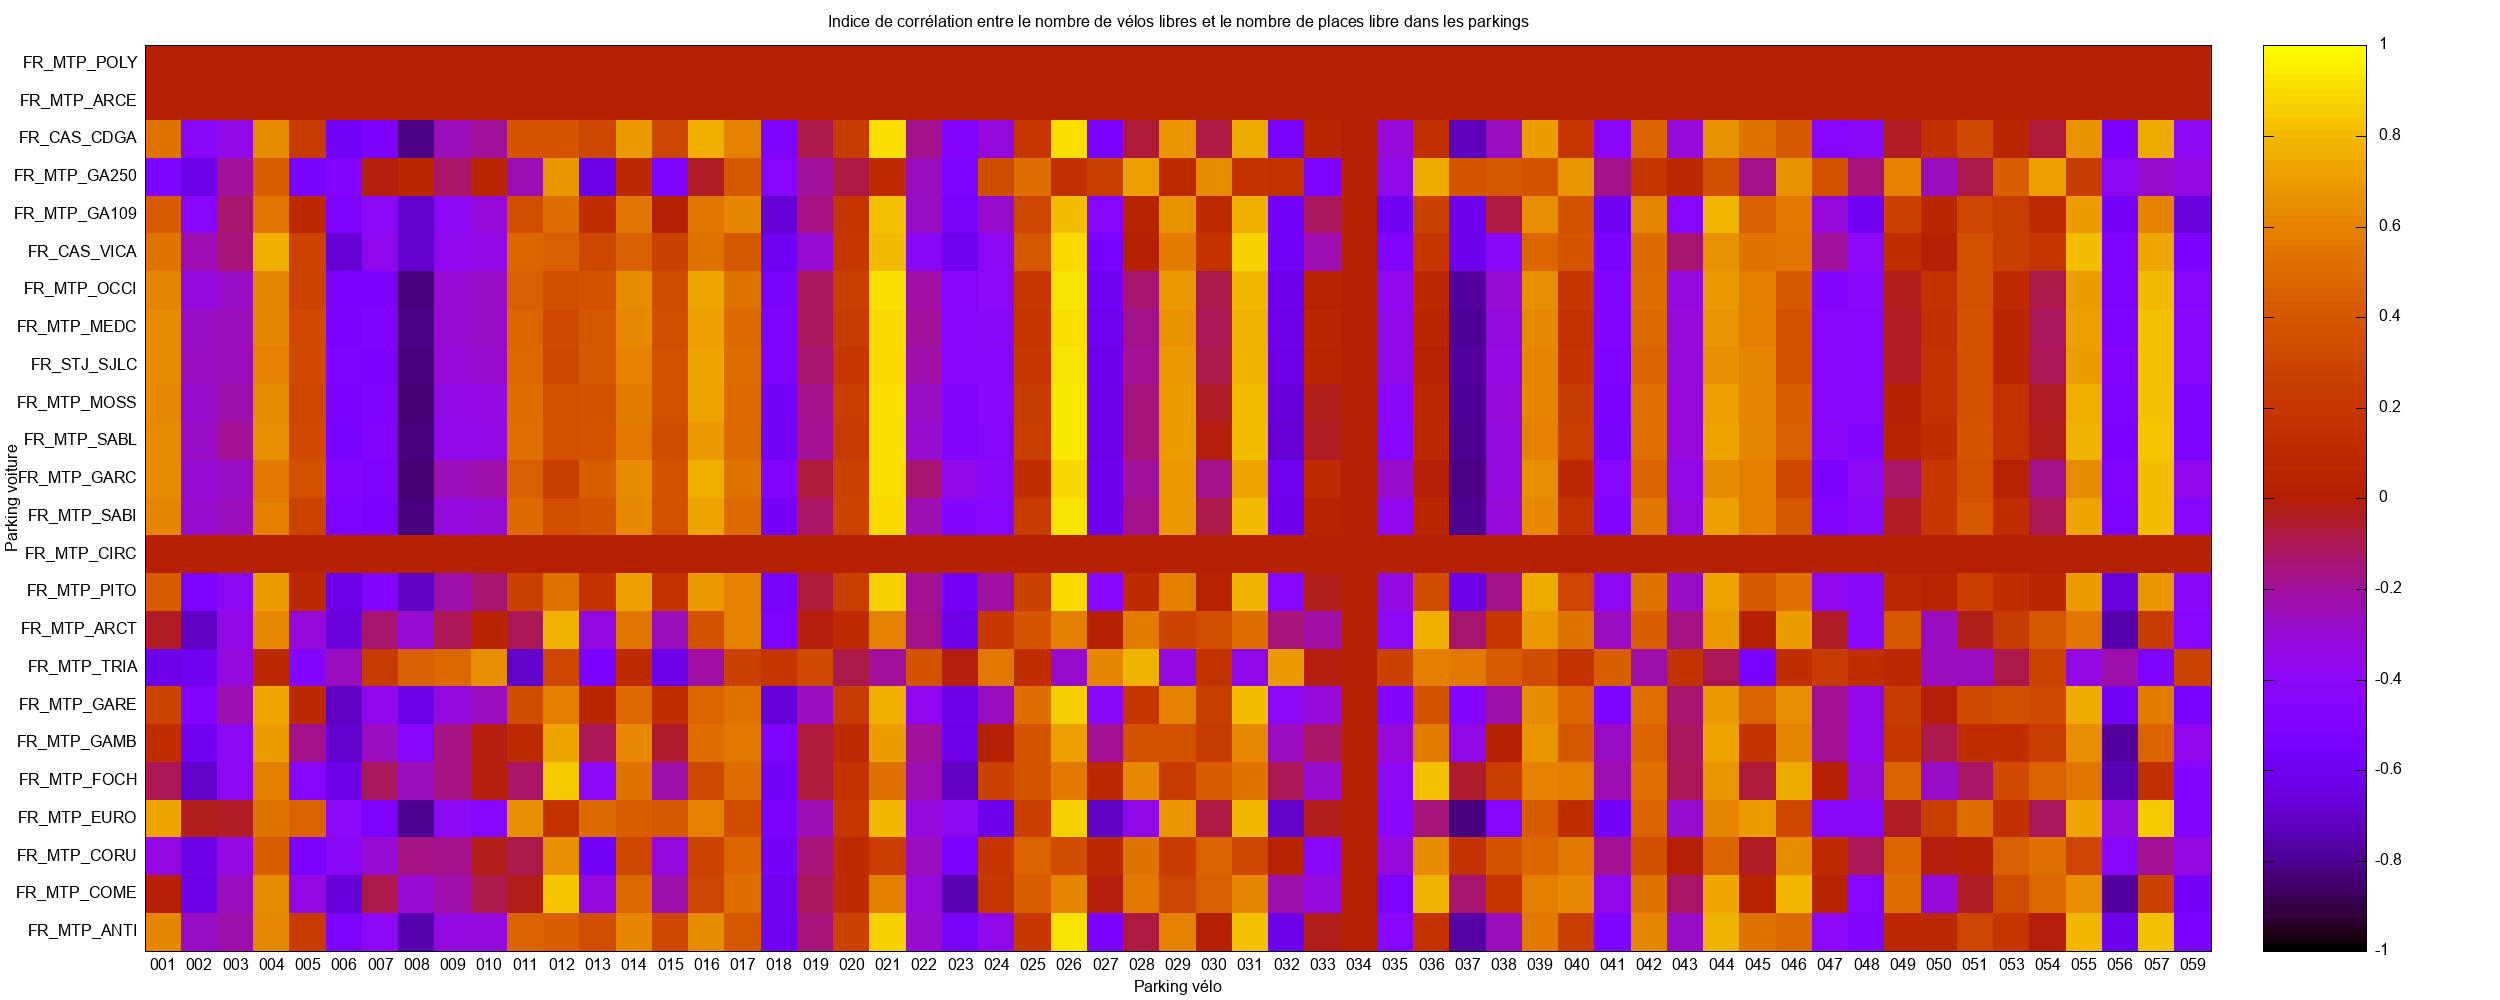
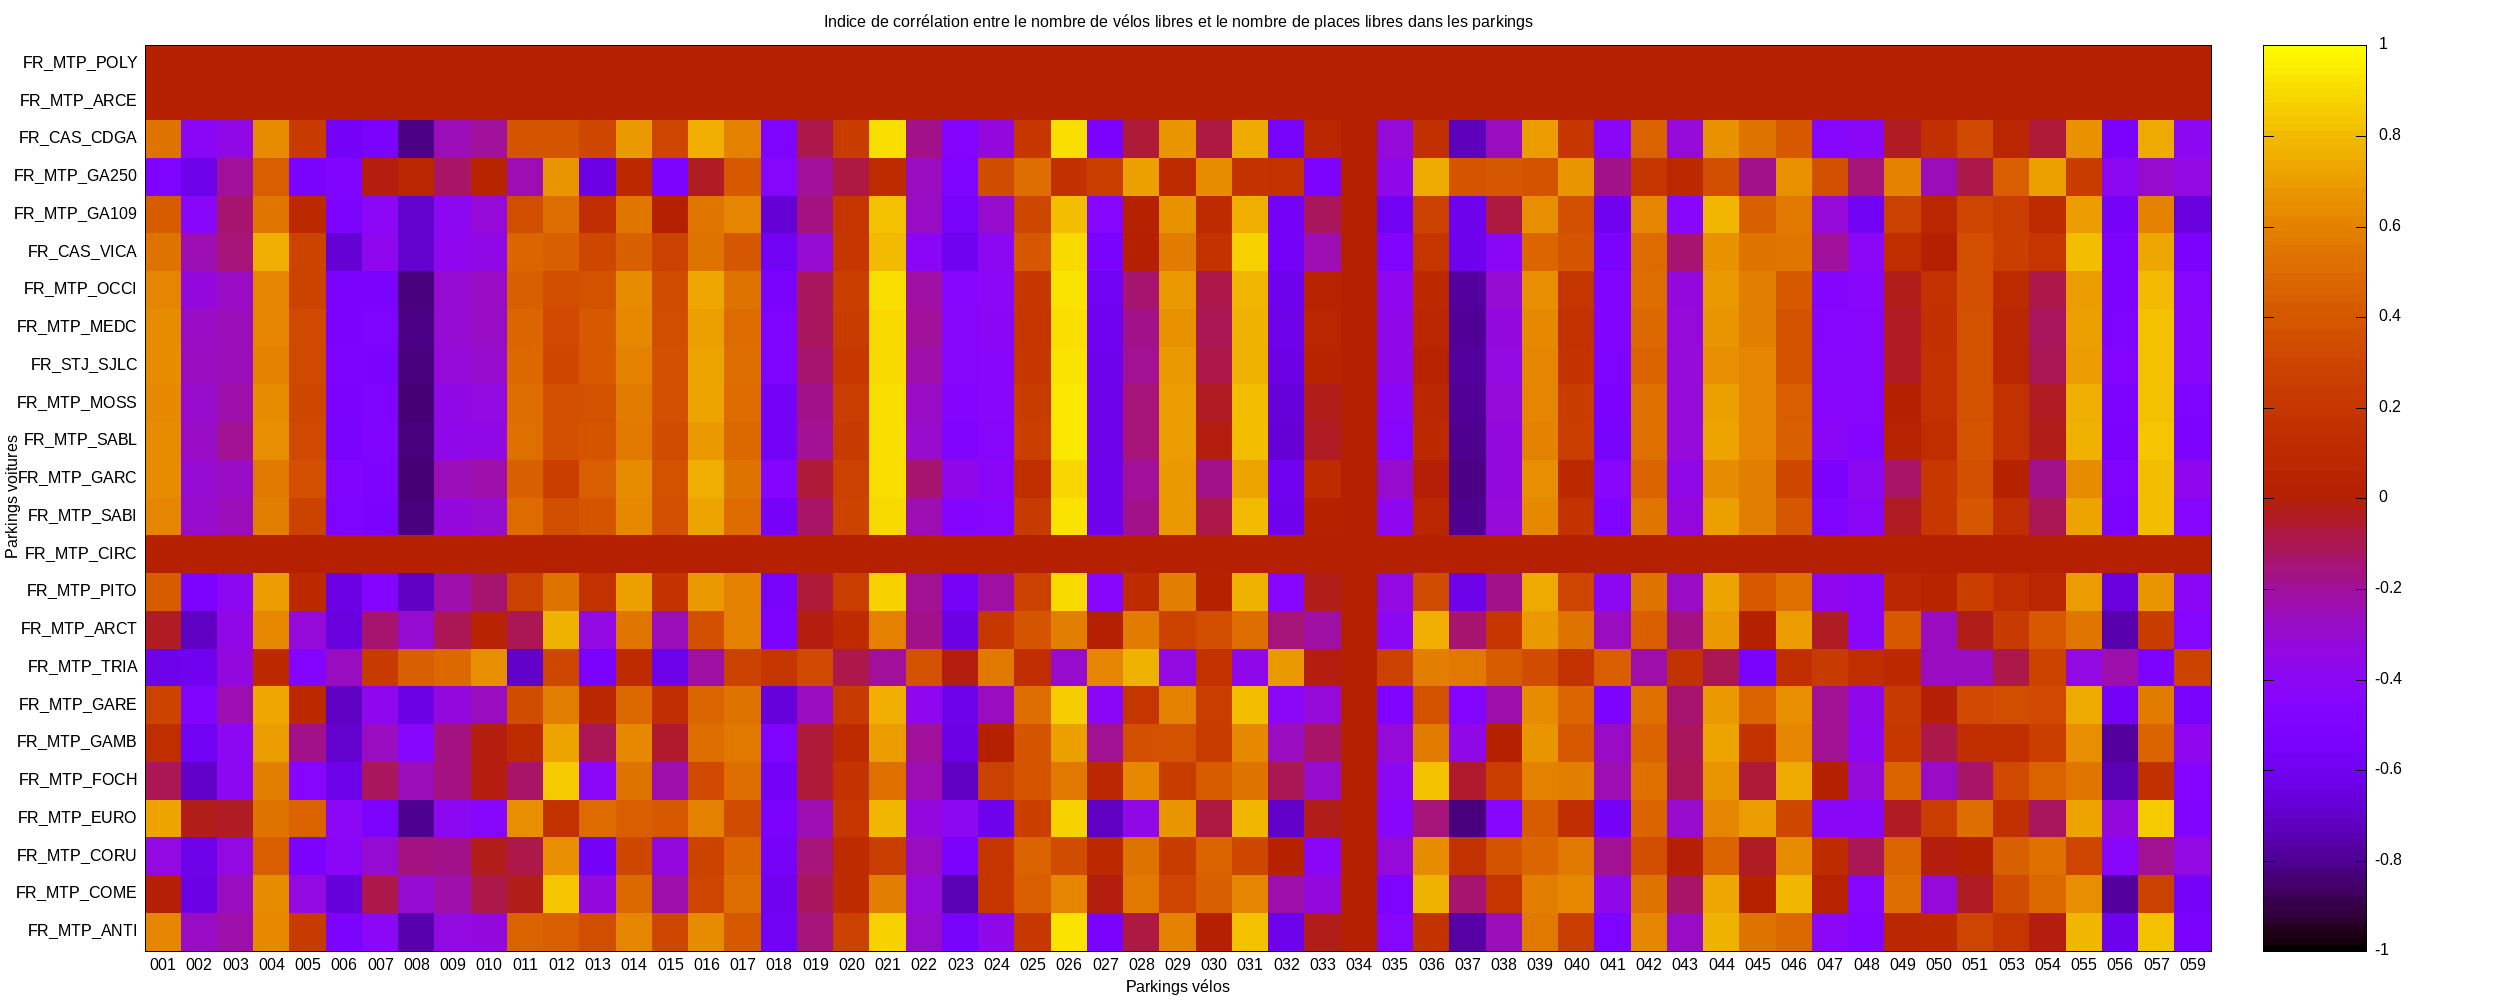
correction

Changed region(s): [[0.3432, 0.0, 0.624, 0.031], [0.0, 0.434, 0.0312, 0.558], [0.4368, 0.961, 0.4992, 0.992]]

diff --git a/pres.html b/pres.html
@@ -64,7 +64,7 @@
 </ul>
 <h2 id="emplacement"><strong>Emplacement</strong></h2>
 <h3 id="données-brutes-"><strong>Données brutes :</strong></h3>
-<p>Toutes les données brutes sont disponibles dans le repertoires databrutes au format CSV.</p>
+<p>Toutes les données brutes sont disponibles dans le repertoire databrutes au format CSV.</p>
 <h3 id="données-traités-"><strong>Données traités :</strong></h3>
 <p>Les données les plus interessantes sont dans le fichier <a href="https://raw.githubusercontent.com/ElouanFiore/SAE15_BRUALLA_FIORE/main/compte_rendu.txt">compte_rendu.txt</a>, il contient pour chaque parkings :</p>
 <ol>
@@ -73,12 +73,12 @@
 <li>Le pourcentage moyen de places/vélos libres sur le temps de mesure.</li>
 <li>L'écart type à cette moyenne</li>
 </ol>
-<p>Les mêmes données pour tout les parkings voitures réuni et tout les parkings vélos réuni sont à la fin du compte rendu.</p>
+<p>Les mêmes données pour tout les parkings voitures réunis et tout les parkings vélos réunis sont à la fin du compte rendu.</p>
 <h2 id="analyse"><strong>Analyse</strong></h2>
 <h3 id="définitions"><strong>Définitions</strong></h3>
-<h4 id="facteur-de-corrélation">Facteur de corrélation</h4>
-<p>Peut démontrer une corrélation entre deux courbes, si elles évoluent dans le même sens le facteur se rapproche de 1, si elles évoluent dans des sens contraire le facteur se rapproche de -1 et si elle n'ont rien à voir le facteur se rapproche de 0. C'est un outils qui permet un analyse, il ne démontre en aucun cas une corrélation à 100%.</p>
-<h4 id="ecart-type">Ecart Type</h4>
+<h4 id="facteur-de-corrélation-">Facteur de corrélation :</h4>
+<p>Peut démontrer une corrélation entre deux courbes, si elles évoluent dans le même sens le facteur se rapproche de 1, si elles évoluent dans des sens contraire le facteur se rapproche de -1 et si elles n'ont rien à voir le facteur se rapproche de 0. C'est un outil qui permet un analyse, il ne démontre en aucun cas une corrélation à 100%.</p>
+<h4 id="écart-type-">Écart Type :</h4>
 <p>Complémentaire à la moyenne il permet de savoir comment les valeurs sont dispersé autour de cette moyenne. Une courbe avec un écart type élevé aura plus de fluctuations autour de la moyenne qu'une courbe avec la même moyenne mais un écart type plus petit.</p>
 <h3 id="correspondances-parkings-vélos"><strong>Correspondances parkings vélos</strong></h3>
 <table>
@@ -217,12 +217,12 @@
 </table>
 <h3 id="carte-de-température"><strong>Carte de température</strong></h3>
 <p><img src="https://raw.githubusercontent.com/ElouanFiore/SAE15_BRUALLA_FIORE/main/heatmap.png" alt="">
-Ce graphique représente l'indice de corrélation pour chaque parkings voitures par rapport aux parkings vélos. On peut constater que certains parking n'ont aucune corrélation, comme FR_MTP_POLY, bien qu'il soit ouvert les données n'ont pas bougé lors de la capture <a href="https://raw.githubusercontent.com/ElouanFiore/SAE15_BRUALLA_FIORE/main/databrutes/FR_MTP_POLY.csv">(données)</a>, les capteurs de présence pour ce parking sont donc considérés comme déféctueux. C'est la même chose pour <a href="https://raw.githubusercontent.com/ElouanFiore/SAE15_BRUALLA_FIORE/main/databrutes/FR_MTP_ARCE.csv">FR_MTP_ARCE</a>, <a href="https://raw.githubusercontent.com/ElouanFiore/SAE15_BRUALLA_FIORE/main/databrutes/FR_MTP_CIRC.csv">FR_MTP_CIRC</a> et le parking vélos <a href="https://raw.githubusercontent.com/ElouanFiore/SAE15_BRUALLA_FIORE/main/databrutes/034.csv">034</a>.</p>
-<h3 id="les-plus-corrélé"><strong>Les plus corrélé</strong></h3>
+Ce graphique représente l'indice de corrélation pour chaque parkings voitures par rapport aux parkings vélos. On peut constater que certains parkingis n'ont aucune corrélation, comme FR_MTP_POLY, bien qu'il soit ouvert les données n'ont pas bougés lors de la capture <a href="https://raw.githubusercontent.com/ElouanFiore/SAE15_BRUALLA_FIORE/main/databrutes/FR_MTP_POLY.csv">(données)</a>, les capteurs de présence pour ce parking sont donc considérés comme déféctueux. C'est la même chose pour <a href="https://raw.githubusercontent.com/ElouanFiore/SAE15_BRUALLA_FIORE/main/databrutes/FR_MTP_ARCE.csv">FR_MTP_ARCE</a>, <a href="https://raw.githubusercontent.com/ElouanFiore/SAE15_BRUALLA_FIORE/main/databrutes/FR_MTP_CIRC.csv">FR_MTP_CIRC</a> et le parking vélo <a href="https://raw.githubusercontent.com/ElouanFiore/SAE15_BRUALLA_FIORE/main/databrutes/034.csv">034</a>.</p>
+<h3 id="les-plus-corrélés"><strong>Les plus corrélés</strong></h3>
 <p><img src="https://raw.githubusercontent.com/ElouanFiore/SAE15_BRUALLA_FIORE/main/graph.png" alt=""></p>
-<p>Ce graphique montre le parking voiture Mosson et le parking vélo Renouvier, ils ont le facteur de corrélation le plus proche de 1. Ces parkings ne sont pas proches géographiquement, ça peut donc être du à une coincidence. Mais le parking Mosson se trouve en périphérie de Montpellier, on peut donc imaginer que s'il y a une ligne de tram présente les usagés l'emprunte pour se rendre au parking Renouvier situé plus à l'interieur Montpellier pour prendre un vélo.</p>
+<p>Ce graphique montre le parking voiture Mosson et le parking vélo Renouvier, ils ont le facteur de corrélation le plus proche de 1. Ces parkings ne sont pas proches géographiquement, ça peut donc être dû à une coincidence. Mais le parking Mosson se trouve en périphérie de Montpellier, on peut donc imaginer que s'il y a une ligne de tramway présente les usagés l'emprunteront pour se rendre au parking Renouvier situé plus à l'interieur de Montpellier pour prendre un vélo.</p>
 <h3 id="données-totales"><strong>Données totales</strong></h3>
-<p>Avec le compte rendu du total des parkings nous pouvons voir que le nombre de places libres est suffisant avec plus de 50% de places libre en moyenne sur Montpellier. Et le service de vélos de Montpellier est efficace, le pourcentage de vélos diponibles en moyenne est de 36% mais c'est un chiffrre à surveiller car cet été le nombre de vélos emprunté devrait être plus important. Enfin la transition voiture/vélo est efficace, même en hiver on obtient des facteurs de corrélations intéressant sur les parkings voitures/vélos.</p>
+<p>Avec le compte rendu du total des parkings, nous pouvons voir que le nombre de places libres est suffisant avec plus de 50% de places libre en moyenne sur Montpellier. Et le service de vélos de Montpellier est efficace, le pourcentage de vélos diponibles est en moyenne de 36% mais c'est un chiffre à surveiller car cet été le nombre de vélos empruntés devrait être plus important. Enfin la transition voiture/vélo est efficace, même en hiver on obtient des facteurs de corrélations intéressant sur les parkings voitures/vélos.</p>
 
     </body>
     </html>

diff --git a/main.py b/main.py
@@ -174,7 +174,7 @@ with open("graph.dat", "w", encoding="utf8") as f:
 with open("graph.plot", "w", encoding="utf8") as f:
 	f.write(f"set title 'Vélos et places de parkings disponibles des parkings les plus corrélé ({graph[0]}) en fonction du temps'\n")
 	f.write("set xdata time\nset timefmt '%d/%m/%Y-%H:%M'\nset format x '%H:%M'\nset xlabel 'Heure de la journée du 27/01/2022 et 28/02/2022'\n")
-	f.write("set ylabel 'Place de parkings disponibles'\n")
+	f.write("set ylabel 'Places de parkings disponibles'\n")
 	f.write("set y2tics\nset y2range [2:17]\nset y2label 'Vélos disponibles'\n")
 	f.write("set terminal png size 2000,1000 enhanced\nset output 'graph.png'\n")
 	f.write(f"plot 'graph.dat' using 1:2 with lines title '{endpoints_voiture[graph[1]]}', 'graph.dat' using 1:3 with lines axes x1y2 title '{id_velo[graph[2]]}'\n")

diff --git a/pres.md b/pres.md
@@ -15,7 +15,7 @@
 
 ## **Emplacement**
 ### **Données brutes :**
-Toutes les données brutes sont disponibles dans le repertoires databrutes au format CSV.
+Toutes les données brutes sont disponibles dans le repertoire databrutes au format CSV.
 
 ### **Données traités :**
 Les données les plus interessantes sont dans le fichier [compte_rendu.txt](https://raw.githubusercontent.com/ElouanFiore/SAE15_BRUALLA_FIORE/main/compte_rendu.txt), il contient pour chaque parkings :
@@ -24,14 +24,14 @@ Les données les plus interessantes sont dans le fichier [compte_rendu.txt](http
 3. Le pourcentage moyen de places/vélos libres sur le temps de mesure.
 4. L'écart type à cette moyenne 
 
-Les mêmes données pour tout les parkings voitures réuni et tout les parkings vélos réuni sont à la fin du compte rendu.
+Les mêmes données pour tout les parkings voitures réunis et tout les parkings vélos réunis sont à la fin du compte rendu.
 
 ## **Analyse**
 ### **Définitions**
-#### Facteur de corrélation
-Peut démontrer une corrélation entre deux courbes, si elles évoluent dans le même sens le facteur se rapproche de 1, si elles évoluent dans des sens contraire le facteur se rapproche de -1 et si elle n'ont rien à voir le facteur se rapproche de 0. C'est un outils qui permet un analyse, il ne démontre en aucun cas une corrélation à 100%.
+#### Facteur de corrélation :
+Peut démontrer une corrélation entre deux courbes, si elles évoluent dans le même sens le facteur se rapproche de 1, si elles évoluent dans des sens contraire le facteur se rapproche de -1 et si elles n'ont rien à voir le facteur se rapproche de 0. C'est un outil qui permet un analyse, il ne démontre en aucun cas une corrélation à 100%.
 
-#### Ecart Type 
+#### Écart Type :
 Complémentaire à la moyenne il permet de savoir comment les valeurs sont dispersé autour de cette moyenne. Une courbe avec un écart type élevé aura plus de fluctuations autour de la moyenne qu'une courbe avec la même moyenne mais un écart type plus petit.
 
 ### **Correspondances parkings vélos**
@@ -45,12 +45,12 @@ Richter vélo|Charles Flahault vélo|Voltaire vélo|Prés d'Arènes vélo|Garcia
 
 ### **Carte de température**
 ![](https://raw.githubusercontent.com/ElouanFiore/SAE15_BRUALLA_FIORE/main/heatmap.png)
-Ce graphique représente l'indice de corrélation pour chaque parkings voitures par rapport aux parkings vélos. On peut constater que certains parking n'ont aucune corrélation, comme FR_MTP_POLY, bien qu'il soit ouvert les données n'ont pas bougé lors de la capture [(données)](https://raw.githubusercontent.com/ElouanFiore/SAE15_BRUALLA_FIORE/main/databrutes/FR_MTP_POLY.csv), les capteurs de présence pour ce parking sont donc considérés comme déféctueux. C'est la même chose pour [FR_MTP_ARCE](https://raw.githubusercontent.com/ElouanFiore/SAE15_BRUALLA_FIORE/main/databrutes/FR_MTP_ARCE.csv), [FR_MTP_CIRC](https://raw.githubusercontent.com/ElouanFiore/SAE15_BRUALLA_FIORE/main/databrutes/FR_MTP_CIRC.csv) et le parking vélos [034](https://raw.githubusercontent.com/ElouanFiore/SAE15_BRUALLA_FIORE/main/databrutes/034.csv).
+Ce graphique représente l'indice de corrélation pour chaque parkings voitures par rapport aux parkings vélos. On peut constater que certains parkingis n'ont aucune corrélation, comme FR_MTP_POLY, bien qu'il soit ouvert les données n'ont pas bougés lors de la capture [(données)](https://raw.githubusercontent.com/ElouanFiore/SAE15_BRUALLA_FIORE/main/databrutes/FR_MTP_POLY.csv), les capteurs de présence pour ce parking sont donc considérés comme déféctueux. C'est la même chose pour [FR_MTP_ARCE](https://raw.githubusercontent.com/ElouanFiore/SAE15_BRUALLA_FIORE/main/databrutes/FR_MTP_ARCE.csv), [FR_MTP_CIRC](https://raw.githubusercontent.com/ElouanFiore/SAE15_BRUALLA_FIORE/main/databrutes/FR_MTP_CIRC.csv) et le parking vélo [034](https://raw.githubusercontent.com/ElouanFiore/SAE15_BRUALLA_FIORE/main/databrutes/034.csv).
 
-### **Les plus corrélé**
+### **Les plus corrélés**
 ![](https://raw.githubusercontent.com/ElouanFiore/SAE15_BRUALLA_FIORE/main/graph.png)
 
-Ce graphique montre le parking voiture Mosson et le parking vélo Renouvier, ils ont le facteur de corrélation le plus proche de 1. Ces parkings ne sont pas proches géographiquement, ça peut donc être du à une coincidence. Mais le parking Mosson se trouve en périphérie de Montpellier, on peut donc imaginer que s'il y a une ligne de tram présente les usagés l'emprunte pour se rendre au parking Renouvier situé plus à l'interieur Montpellier pour prendre un vélo.
+Ce graphique montre le parking voiture Mosson et le parking vélo Renouvier, ils ont le facteur de corrélation le plus proche de 1. Ces parkings ne sont pas proches géographiquement, ça peut donc être dû à une coincidence. Mais le parking Mosson se trouve en périphérie de Montpellier, on peut donc imaginer que s'il y a une ligne de tramway présente les usagés l'emprunteront pour se rendre au parking Renouvier situé plus à l'interieur de Montpellier pour prendre un vélo.
 
 ### **Données totales**
-Avec le compte rendu du total des parkings nous pouvons voir que le nombre de places libres est suffisant avec plus de 50% de places libre en moyenne sur Montpellier. Et le service de vélos de Montpellier est efficace, le pourcentage de vélos diponibles en moyenne est de 36% mais c'est un chiffrre à surveiller car cet été le nombre de vélos emprunté devrait être plus important. Enfin la transition voiture/vélo est efficace, même en hiver on obtient des facteurs de corrélations intéressant sur les parkings voitures/vélos.
+Avec le compte rendu du total des parkings, nous pouvons voir que le nombre de places libres est suffisant avec plus de 50% de places libre en moyenne sur Montpellier. Et le service de vélos de Montpellier est efficace, le pourcentage de vélos diponibles est en moyenne de 36% mais c'est un chiffre à surveiller car cet été le nombre de vélos empruntés devrait être plus important. Enfin la transition voiture/vélo est efficace, même en hiver on obtient des facteurs de corrélations intéressant sur les parkings voitures/vélos.
